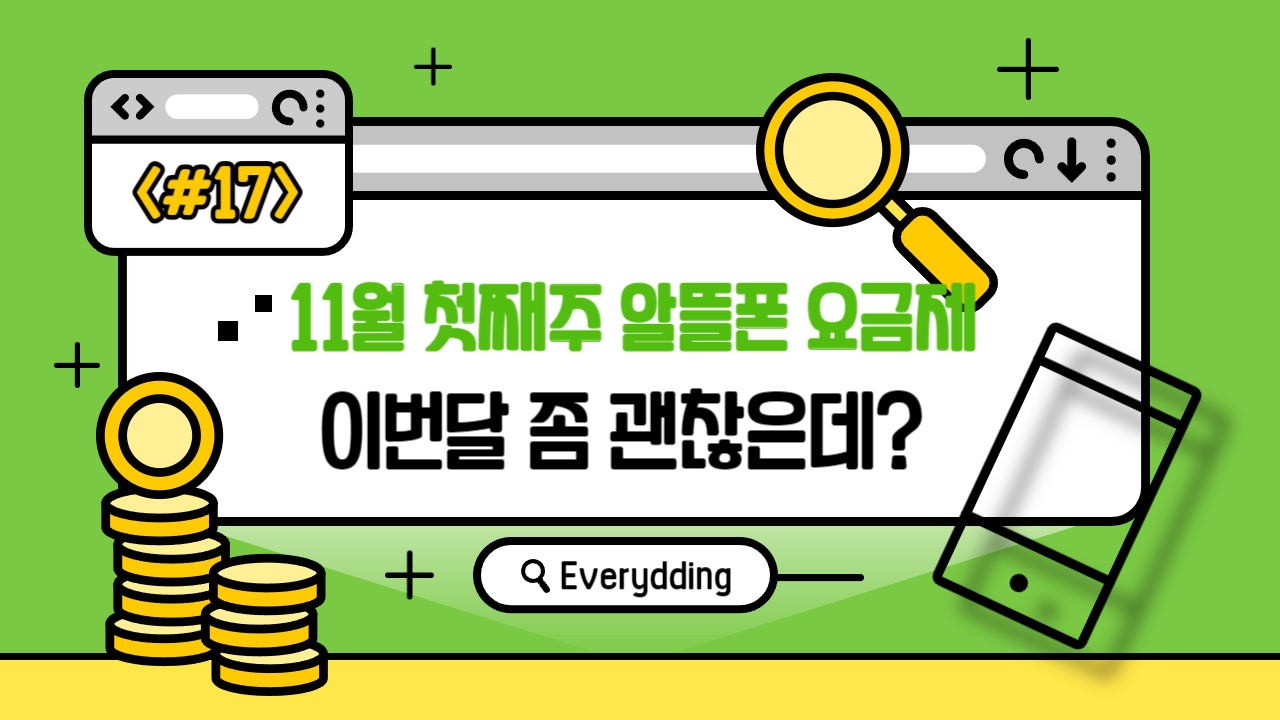
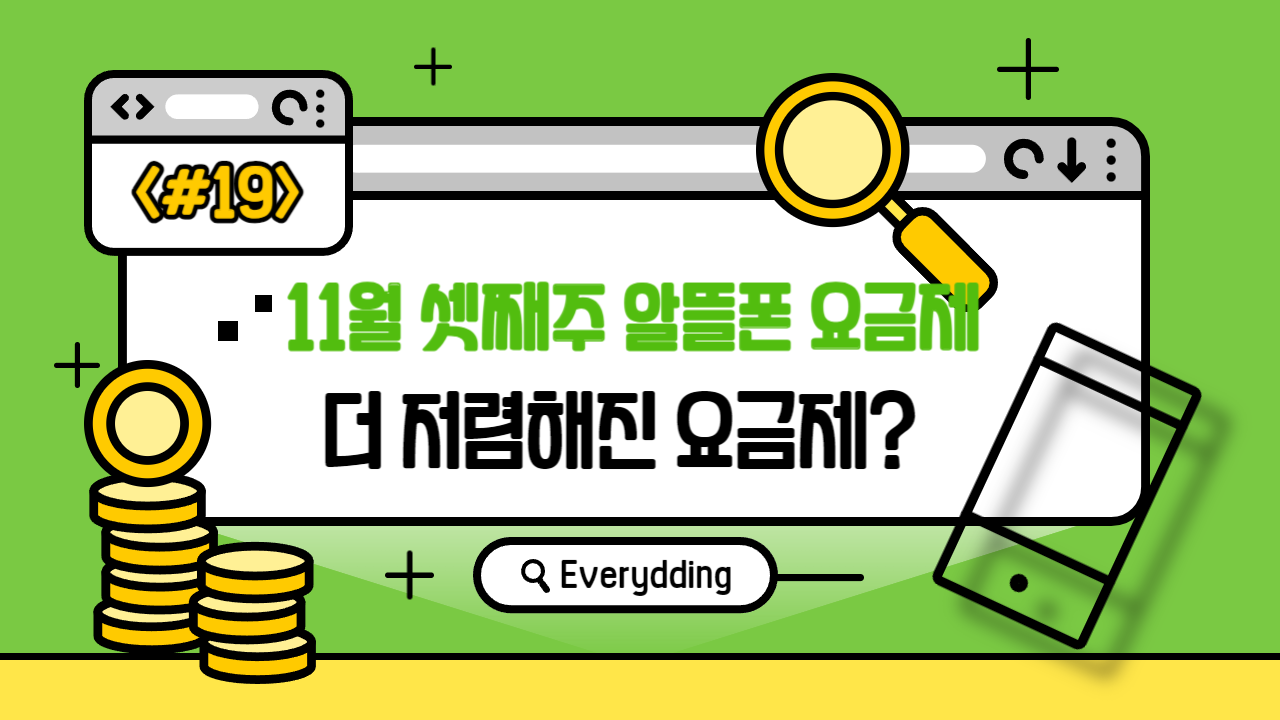
Add files via upload

diff --git a/16.html b/16.html
@@ -293,7 +293,7 @@ body {
     <tr>
         <td width="1000" align="center" >
             <table class="type11"></center>
-            <h1 class = "title_1">에브리띵의 23년 11월 첫째주 알뜰통신사 요금제 총정리</h1>
+            <h1 class = "title_1">에브리띵의 23년 11월 셋째주 알뜰통신사 요금제 총정리</h1>
         </td>
     </tr>       
     <a name = "0won"><h2 class="title_2">1. 0원 요금제(1Mbps)</h2></a>
@@ -310,24 +310,7 @@ body {
     </tr>
     </thead>
     <tbody>
-        <tr bgcolor ="#F6EDC3">
-            <td>에르엘모바일</td>
-            <td>음성기본 10GB+</td>
-            <td>10GB+1Mbps</td>
-            <td>0원</td>
-            <td>4개월</td>
-            <td>KT</td>
-            <td><a href="https://www.erel.co.kr/soc/view/?code=PL238O541">링크</a></td>
-        </tr>  
-        <tr bgcolor ="#F6EDC3">
-            <td>에르엘모바일</td>
-            <td>음성기본 7GB+ (밀리의서재)</td>
-            <td>7GB+1Mbps</td>
-            <td>0원</td>
-            <td>4개월</td>
-            <td>KT</td>
-            <td><a href="https://www.erel.co.kr/soc/view/?code=PL237K292">밀리의서재<br>이용가능</a></td>
-        </tr>  
+
     <tr bgcolor ="#F6EDC3">
         <td>KG모바일</td>
         <td>[모빌카드 스페셜]통화,데이터 마음대로 7GB+</td>
@@ -375,15 +358,15 @@ body {
         <td>LG</td>
         <td><a href="https://mobilemona.co.kr/view/plan/rate_detail.aspx?gdcd=LPZ0018421">링크</a></td>
     </tr>
-    <tr bgcolor ="#EEEEEE">
-        <td>아이즈모바일</td>
-        <td>[K]무한10GB+1Mbps</td>
-        <td>10GB+1Mbps</td>
-        <td>2750원</td>
-        <td>5개월</td>
+    <tr bgcolor ="#F6EDC3">
+        <td>에르엘모바일</td>
+        <td>음성기본 7GB+ (밀리의서재)</td>
+        <td>7GB+1Mbps</td>
+        <td>3300원</td>
+        <td>4개월</td>
         <td>KT</td>
-        <td><a href="https://www.eyes.co.kr/payplan/info_view/339/C01">링크</a></td>
-    </tr>
+        <td><a href="https://www.erel.co.kr/soc/view/?code=PL237K292">밀리의서재<br>이용가능</a></td>
+    </tr>  
 
     <tr bgcolor ="#EEEEEE">
         <td>미니게이트</td>
@@ -394,15 +377,15 @@ body {
         <td>KT</td>
         <td><a href="https://www.moyoplan.com/plans/15901">모요 개통<br>밀리 이용가능</a></td>
     </tr>
-    <tr bgcolor ="#EEEEEE">
-        <td>위너스텔(Well)</td>
-        <td>음성 기본 7GB+</td>
-        <td>7GB+1Mbps</td>
-        <td>5500원</td>
+    <tr bgcolor ="#F6EDC3">
+        <td>에르엘모바일</td>
+        <td>음성기본 10GB+</td>
+        <td>10GB+1Mbps</td>
+        <td>4400원</td>
         <td>4개월</td>
-        <td>LG</td>
-        <td></td>
-    </tr>
+        <td>KT</td>
+        <td><a href="https://www.erel.co.kr/soc/view/?code=PL238O541">링크</a></td>
+    </tr>  
  
 
 
@@ -451,16 +434,7 @@ body {
         <td><a href="https://www.moyoplan.com/plans/18700">모요 개통<br>밀리 이용가능</a></td>
     
     </tr>
-    <tr bgcolor ="#F6EDC3">
-        <td>에르엘모바일</td>
-        <td>음성 기본 11GB+일 2GB(네이버페이)</td>
-        <td>11GB+일2GB+3Mbps</td>
-        <td>11000원</td>
-        <td>4개월</td>
-        <td>KT</td>
-        <td><a href="https://www.erel.co.kr/soc/view/?code=PL237K294">네이버페이<br>월 5000원</a></td>
-    
-    </tr>
+
     <tr bgcolor ="#EEEEEE">
         <td>A모바일</td>
         <td>A 스페셜 11GB+</td>
@@ -502,7 +476,16 @@ body {
         <td><a href="https://www.eyes.co.kr/payplan/info_view/277/C01/EVD0759">밀리의서재<br>이용가능</a></td>
     
     </tr>
-
+    <tr bgcolor ="#F6EDC3">
+        <td>에르엘모바일</td>
+        <td>음성 기본 11GB+일 2GB(네이버페이)</td>
+        <td>11GB+일2GB+3Mbps</td>
+        <td>16500원</td>
+        <td>4개월</td>
+        <td>KT</td>
+        <td><a href="https://www.erel.co.kr/soc/view/?code=PL237K294">네이버페이<br>월 5000원</a></td>
+    
+    </tr>
     <tr bgcolor ="#EEEEEE">
         <td>이지모바일</td>
         <td>EG 데이터 11G</td>
